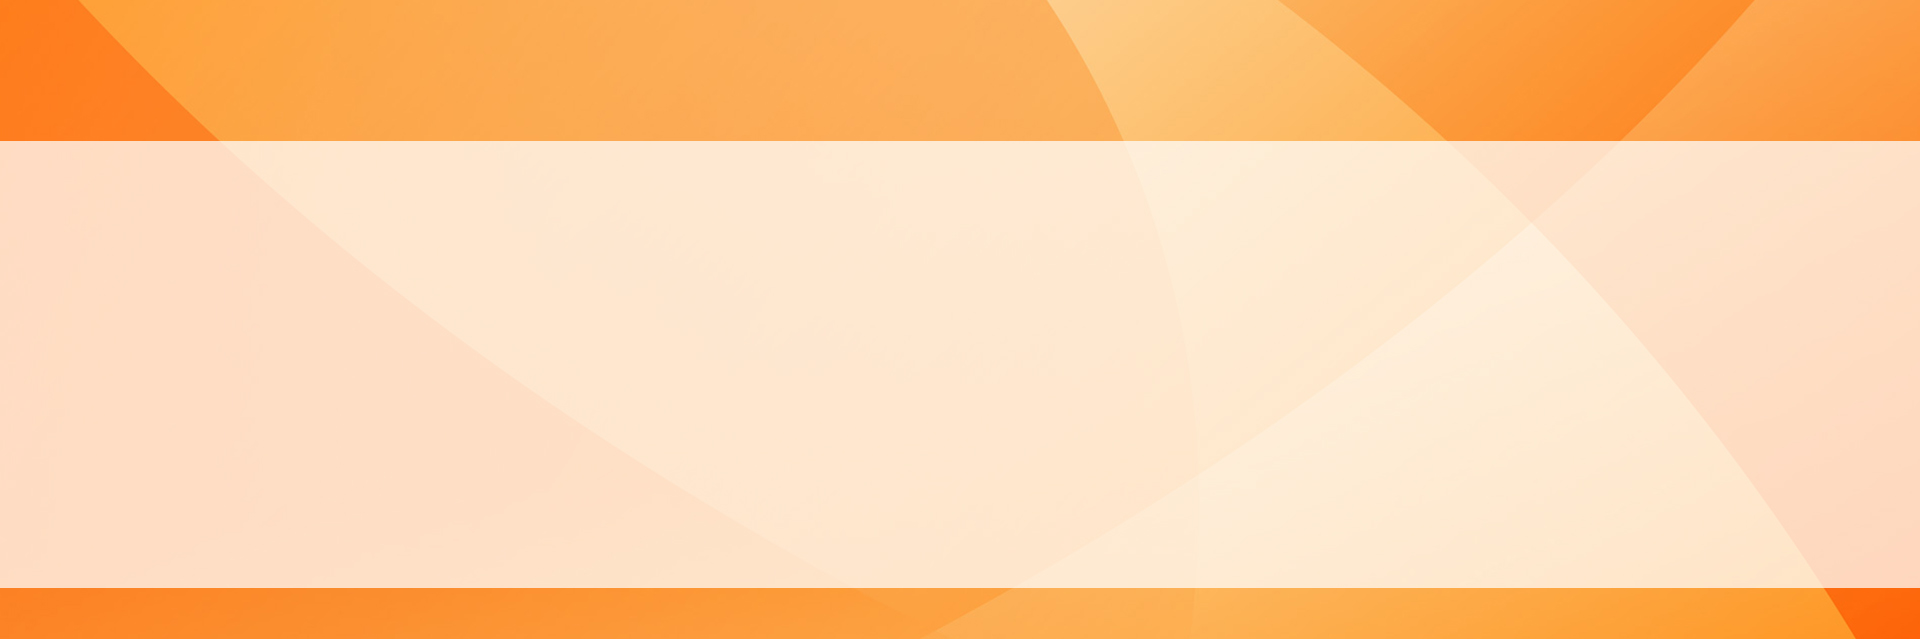
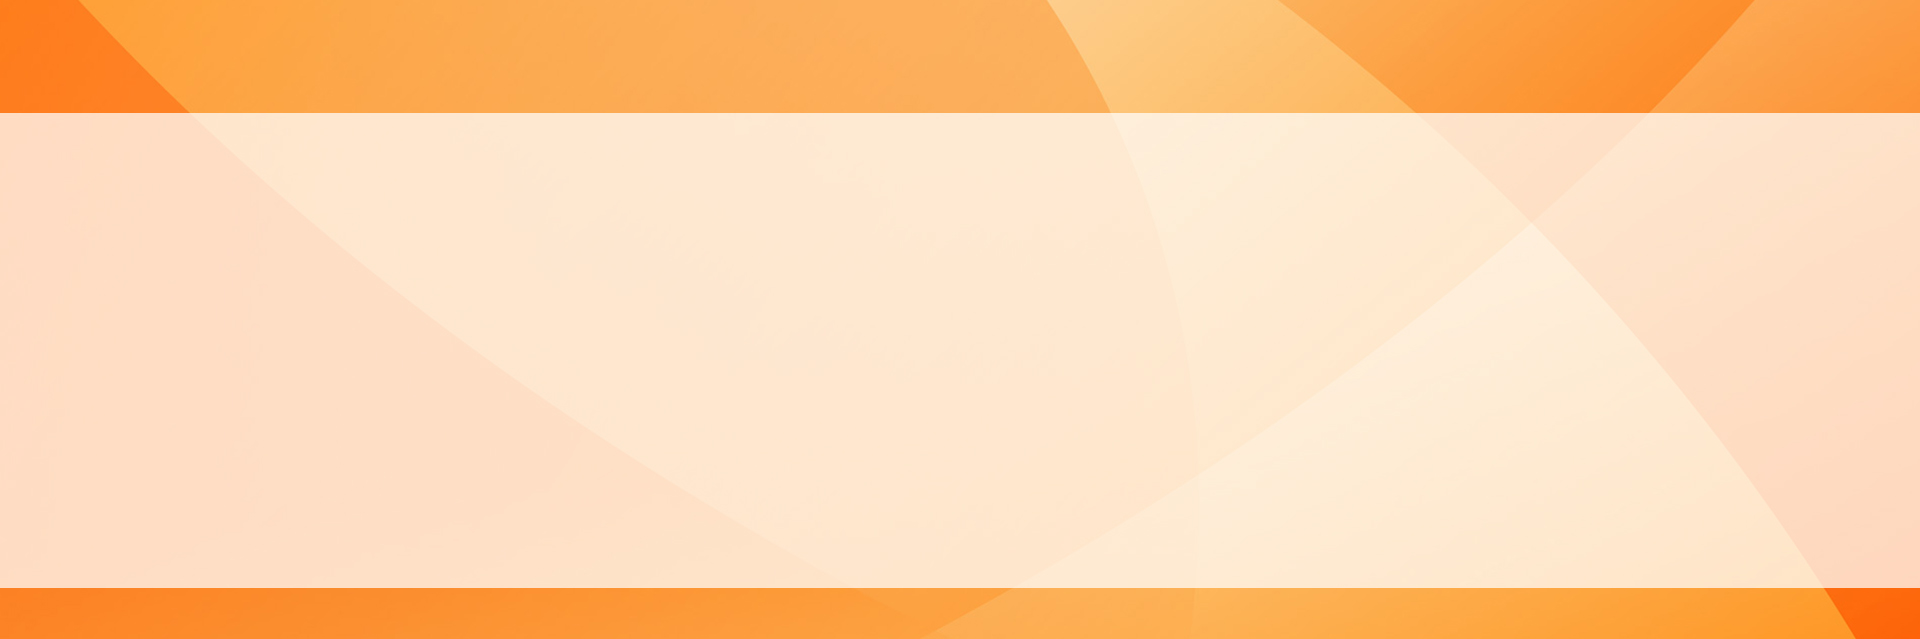
Cambios Esteticos

Changed region(s): [[0.0, 0.1784, 1.0, 0.2379]]

diff --git a/Freeze/index.html b/Freeze/index.html
@@ -69,15 +69,15 @@
                         <ul class="nav navbar-nav navbar-right">
                             <li><a class="getApp" href="index.html">Inicio</a>
                             </li>
-                            <li><a href="#features">Radios FM</a>
+                            <li><a href="#features"><b>Radios FM</b></a>
                             </li>
-                            <li><a href="#about">Radios On Line</a>
+                            <li><a href="#about"><b>Radios On Line</b></a>
                             </li>
-                            <li><a href="#demo">¿Quienes Somos?</a>
+                            <li><a href="#demo"><b>¿Quienes Somos?</b></a>
                             </li>
-                            <li><a href="#screens">Nuestros Servicios</a>
+                            <li><a href="#screens"><b>Nuestros Servicios</b></a>
                             </li>
-                            <li><a href="#support">Contáctenos</a>
+                            <li><a href="#support"><b>Contáctenos</b></a>
                             </li>
                             <!--
                             <li><a href="#reviews">reviews</a>
@@ -258,9 +258,7 @@
                 <div class="section-heading scrollpoint sp-effect3">
                     <h1>Radios FM</h1>
                                 <div class="divider"></div>
-                    <p>Learn more about this feature packed App</p>
                 </div>
-                <div><br></div>
                 <div class="row">
                     <div class="col-md-4 col-sm-4 scrollpoint sp-effect1">
                         <div class="media media-left feature">
@@ -268,8 +266,8 @@
                                <img src="img/freeze/circulo1.png" width="50%" heigth="50%"alt="" class="logo">
                             </a>
                             <div class="media-body">
-                                <h3 class="media-heading">Radio Sol FM</h3>
-                                La más prendida 105.3 FM
+                                <h3 class="media-heading">Radio Sol FM&nbsp;&nbsp;&nbsp;&nbsp;</h3>
+                                La más prendida 105.3 FM&nbsp;&nbsp;&nbsp;&nbsp;&nbsp;&nbsp;&nbsp;&nbsp;&nbsp;&nbsp;&nbsp;
                             </div>
                         </div>
                         <div class="media media-left feature">
@@ -277,8 +275,8 @@
                                 <img src="img/freeze/circulo2.png" width="50%" heigth="50%"alt="" class="logo">
                             </a>
                             <div class="media-body">
-                                <h3 class="media-heading">Radio Que Bonita</h3>
-                                La mas sabrosa del 105.3 FM
+                                <h3 class="media-heading">Radio Que Bonita&nbsp;&nbsp;&nbsp;&nbsp;</h3>
+                                La mas sabrosa del 105.3 FM&nbsp;&nbsp;&nbsp;&nbsp;&nbsp;&nbsp;&nbsp;&nbsp;&nbsp;&nbsp;&nbsp;
                             </div>
                         </div>
                         <div class="media media-left feature">
@@ -286,8 +284,8 @@
                                 <img src="img/freeze/circulo3.png" width="50%" heigth="50%"alt="" class="logo">
                             </a>
                             <div class="media-body">
-                                <h3 class="media-heading">Radio 105 FM</h3>
-                                El poder Chalateco 105.3 FM
+                                <h3 class="media-heading">Radio 105 FM&nbsp;&nbsp;&nbsp;&nbsp;</h3>
+                                El poder Chalateco 105.3 FM&nbsp;&nbsp;&nbsp;&nbsp;&nbsp;&nbsp;&nbsp;&nbsp;&nbsp;&nbsp;&nbsp;
                             </div>
                         </div>
                         <div class="media media-left feature">
@@ -295,8 +293,8 @@
                                 <img src="img/freeze/circulo4.png" width="50%" heigth="50%"alt="" class="logo">
                             </a>
                             <div class="media-body">
-                                <h3 class="media-heading">Radio La Palma</h3>
-                                Cuna de la Paz 105.3 FM
+                                <h3 class="media-heading">Radio La Palma&nbsp;&nbsp;&nbsp;&nbsp;</h3>
+                                Cuna de la Paz 105.3 FM&nbsp;&nbsp;&nbsp;&nbsp;&nbsp;&nbsp;&nbsp;&nbsp;&nbsp;&nbsp;&nbsp;
                             </div>
                         </div>
                         <div class="media media-left feature">
@@ -304,8 +302,8 @@
                                <img src="img/freeze/circulo5.png" width="50%" heigth="50%"alt="" class="logo">
                             </a>
                             <div class="media-body">
-                                <h3 class="media-heading">Radio La Ola</h3>
-                                La mas caliente del Puerto 105.3 FM
+                                <h3 class="media-heading">Radio La Ola&nbsp;&nbsp;&nbsp;&nbsp;</h3>
+                                La mas caliente del Puerto&nbsp;&nbsp;&nbsp;&nbsp;&nbsp;&nbsp;&nbsp;&nbsp;&nbsp;&nbsp;&nbsp;
                             </div>
                         </div>
                     </div>

diff --git a/Freeze/css/freeze.css b/Freeze/css/freeze.css
@@ -161,7 +161,7 @@ header .navbar-default.scrolled ul.navbar-nav {
 }
 .section-heading h1 {
   display: inline-block;
-  font-size: 55px;
+  font-size: 30px;
   font-weight: 300;
   margin-bottom: 0;
 }
@@ -176,7 +176,7 @@ header .navbar-default.scrolled ul.navbar-nav {
   content: "";
   position: relative;
   height: 4px;
-  width: 60px;
+  width: 150px;
   display: block;
   text-align: center;
   margin: 13px auto;
@@ -755,32 +755,34 @@ form textarea.form-control {
     -webkit-transform: scale(1);
   }
 }
+
+/* COLOR DE PAGINA PRINCIPAL */
 header {
-  background: #66cdcc;
+  background: #ff6600;
   /* Old browsers */
-  background: -moz-linear-gradient(-45deg, #66cdcc 0%, #336799 100%);
+  background: -moz-linear-gradient(-45deg, #ff6600 0%, #ffc186 100%);
   /* FF3.6+ */
-  background: -webkit-gradient(linear, left top, right bottom, color-stop(0%, #66cdcc), color-stop(100%, #336799));
+  background: -webkit-gradient(linear, left top, right bottom, color-stop(0%, #FF953D), color-stop(100%, #ffc186));
   /* Chrome,Safari4+ */
-  background: -webkit-linear-gradient(-45deg, #66cdcc 0%, #336799 100%);
+  background: -webkit-linear-gradient(-45deg, #ff6600 0%, #ffc186 100%);
   /* Chrome10+,Safari5.1+ */
-  background: -o-linear-gradient(-45deg, #66cdcc 0%, #336799 100%);
+  background: -o-linear-gradient(-45deg, #ff6600 0%, #ffc186 100%);
   /* Opera 11.10+ */
-  background: -ms-linear-gradient(-45deg, #66cdcc 0%, #336799 100%);
+  background: -ms-linear-gradient(-45deg, #ff6600 0%, #ffc186 100%);
   /* IE10+ */
-  background: linear-gradient(-45deg, #66cdcc 0%, #336799 100%);
+  background: linear-gradient(-45deg, #ff6600 0%, #ffc186 100%);
   /* W3C */
   filter: progid:DXImageTransform.Microsoft.gradient(startColorstr=#66cdcc, endColorstr=#336799, GradientType=1);
   /* IE6-9 fallback on horizontal gradient */
 }
 /*COLOR DE TEXTO NOMBRE DE PAGINAS PAGINA PRINCIPAL */
 header .navbar-default ul.navbar-nav li a {
-  color: #ffffff;
+  color: #000000;
   background: none;
 }
 /*COLOR DE TEXTO BOTON INICIO PAGINA PRINCIPAL */
 header .navbar-default ul.navbar-nav li a.getApp {
-  color: #3c79b4;
+  color: #000000;
   background: #ffffff;
   /* Old browsers */
   background: -moz-linear-gradient(180deg, #ffffff 0%, #e0e0e0 100%);
@@ -1016,7 +1018,7 @@ section#support .media:hover i.fa {
 section#support .media:hover h3 {
   color: #FF631E;
 }
-/* footer section */
+/* footer section color de la parte final */
 footer {
   background: #66cdcc;
   /* Old browsers */
@@ -1074,8 +1076,8 @@ footer .rights a {
 }
 .btn.btn-primary.inverse:hover {
   color: #ffffff;
-  background: #66cdcc;
-  border-color: #66cdcc;
+  background: #000000;
+  border-color: #ffffff;
 }
 .btn.btn-default {
   background: #ffffff;
